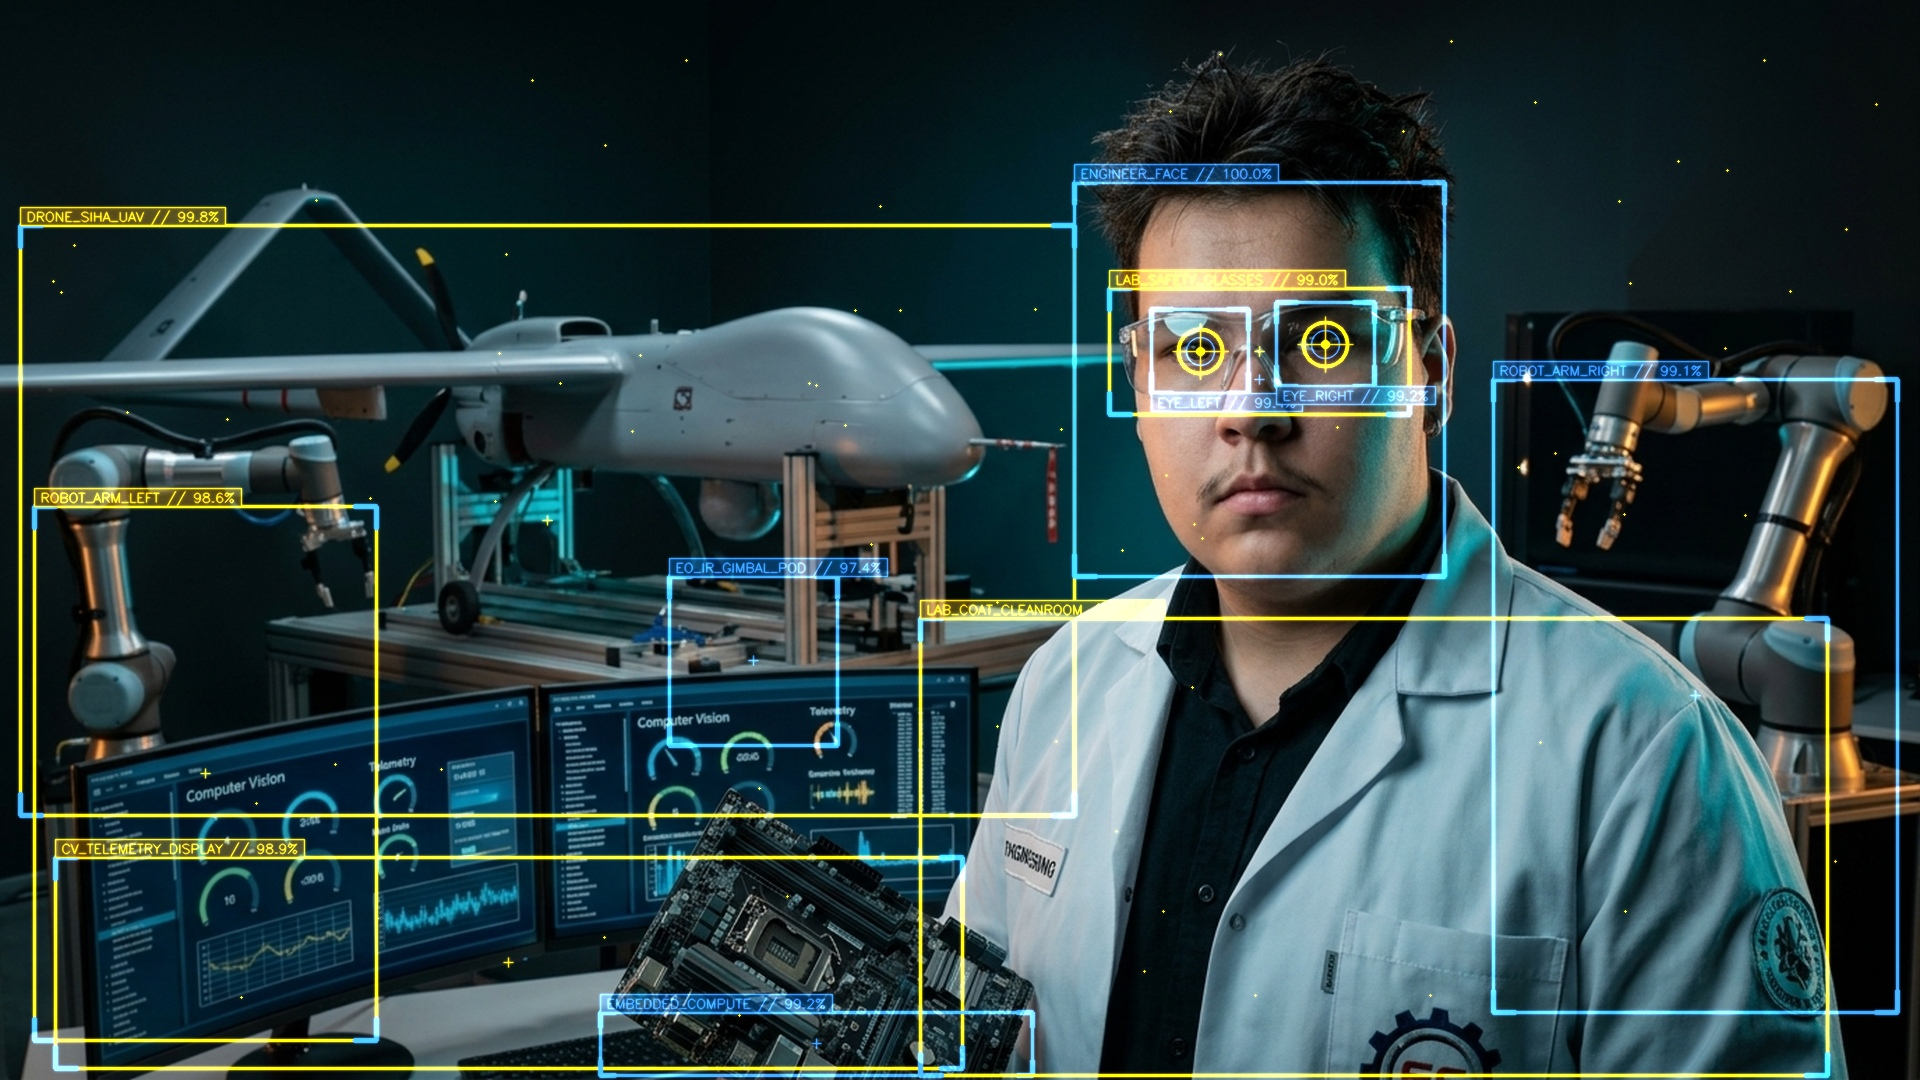
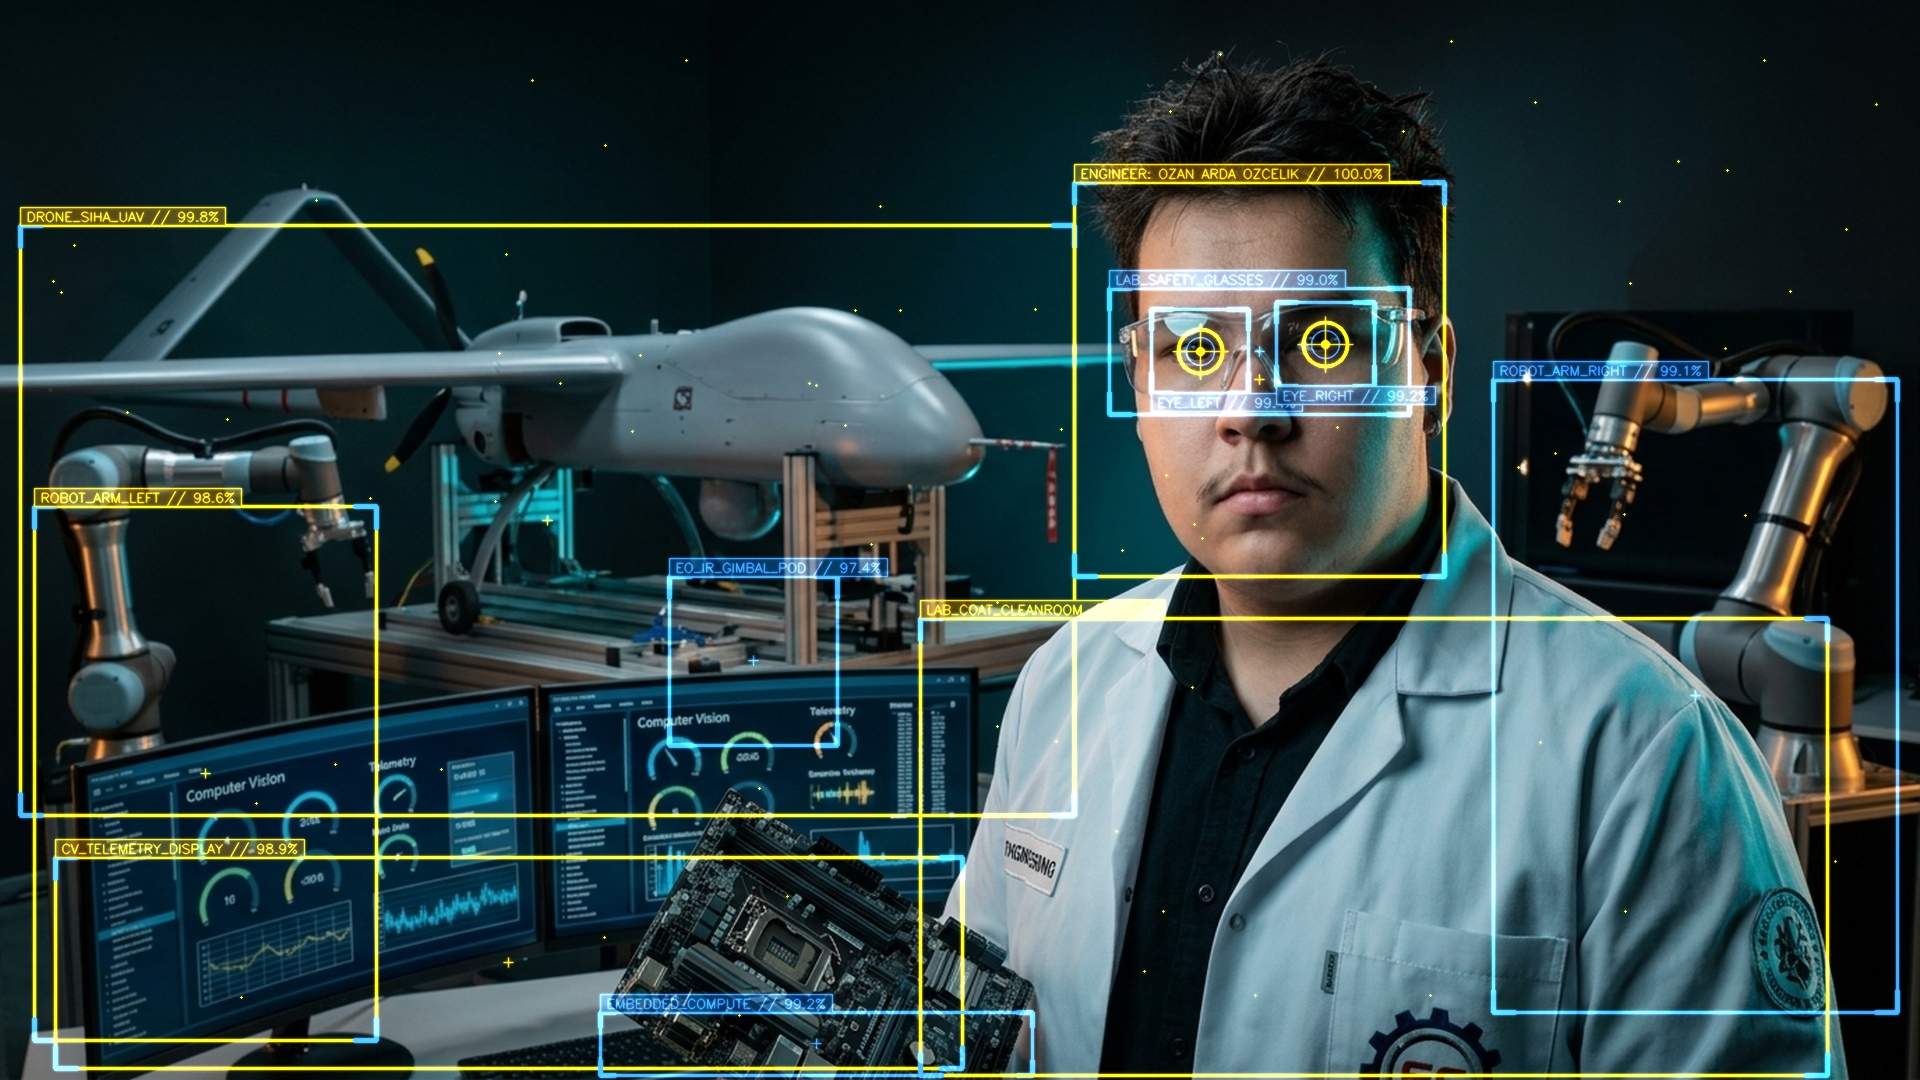
feat(hero): make ENGINEER: OZAN ARDA OZCELIK bounding box permanently visible on main portrait

diff --git a/scratch/build_yolo_detection_layer.py b/scratch/build_yolo_detection_layer.py
@@ -8,15 +8,9 @@ def build_detection_layer():
     # 1. Load and upscale to crisp 1920x1080
     top_img = Image.open(src_top).convert("RGB")
     top_1080 = top_img.resize((1920, 1080), Image.Resampling.LANCZOS)
-    top_1080.save("public/portrait_top.jpg", quality=96)
-    print("Saved public/portrait_top.jpg (1920x1080)")
+    raw_bgr = cv2.cvtColor(np.array(top_1080), cv2.COLOR_RGB2BGR)
 
-    # 2. Build bottom YOLO / OpenCV detection layer
-    bot_bgr = cv2.cvtColor(np.array(top_1080), cv2.COLOR_RGB2BGR)
-    overlay = np.zeros_like(bot_bgr)
-    h, w = bot_bgr.shape[:2] # 1080, 1920
-
-    # Scale factor from 1376x768 to 1920x1080
+    h, w = raw_bgr.shape[:2] # 1080, 1920
     sx = 1920 / 1376
     sy = 1080 / 768
 
@@ -27,7 +21,7 @@ def build_detection_layer():
         # Draw main rectangle
         cv2.rectangle(img_layer, (px1, py1), (px2, py2), color, 2, cv2.LINE_AA)
 
-        # Corner brackets
+        # Corner precision brackets
         clen = min(22, (px2 - px1) // 4, (py2 - py1) // 4)
         cv2.line(img_layer, (px1, py1), (px1 + clen, py1), (255, 140, 55), 3, cv2.LINE_AA)
         cv2.line(img_layer, (px1, py1), (px1, py1 + clen), (255, 140, 55), 3, cv2.LINE_AA)
@@ -39,7 +33,7 @@ def build_detection_layer():
         cv2.line(img_layer, (px2, py2), (px2, py2 - clen), (255, 140, 55), 3, cv2.LINE_AA)
 
         # Label tag text
-        tag_text = f"{label.upper()} // {score:.1f}%"
+        tag_text = f"{label.upper()} // {score:.1f}%" if score is not None else label.upper()
         font = cv2.FONT_HERSHEY_SIMPLEX
         font_scale = 0.44
         thickness = 1
@@ -64,36 +58,56 @@ def build_detection_layer():
             cx, cy = (px1 + px2) // 2, (py1 + py2) // 2
             cv2.drawMarker(img_layer, (cx, cy), color, cv2.MARKER_CROSS, 10, 1, cv2.LINE_AA)
 
+    # =========================================================================
+    # 1. TOP LAYER: Ozan with Permanent ENGINEER: OZAN ARDA OZCELIK Bounding Box
+    # =========================================================================
+    top_overlay = np.zeros_like(raw_bgr)
+    # Permanent Engineer detection box
+    draw_yolo_box(top_overlay, 770, 130, 1035, 410, "ENGINEER: OZAN ARDA OZCELIK", 100.0, color=(0, 210, 255), header_bg=(0, 40, 60), tag_pos="top")
+    # Permanent Lab safety glasses box
+    draw_yolo_box(top_overlay, 795, 205, 1010, 295, "LAB_SAFETY_GLASSES", 99.0, color=(255, 140, 55), header_bg=(60, 30, 0), tag_pos="top", show_crosshair=False)
+
+    top_blur = cv2.GaussianBlur(top_overlay, (7, 7), 0)
+    top_final = cv2.addWeighted(raw_bgr, 1.0, top_overlay, 0.95, 0)
+    top_final = cv2.addWeighted(top_final, 1.0, top_blur, 0.40, 0)
+    Image.fromarray(cv2.cvtColor(top_final, cv2.COLOR_BGR2RGB)).save("public/portrait_top.jpg", quality=96)
+    print("Saved public/portrait_top.jpg with permanent Engineer Box (1920x1080)")
+
+    # =========================================================================
+    # 2. BOTTOM LAYER: Full Laboratory Spatial Perception Matrix
+    # =========================================================================
+    bot_overlay = np.zeros_like(raw_bgr)
+
     # 1. SİHA Drone (Left)
-    draw_yolo_box(overlay, 15, 160, 770, 580, "drone_siha_uav", 99.8, color=(0, 210, 255), header_bg=(0, 40, 60), tag_pos="top")
+    draw_yolo_box(bot_overlay, 15, 160, 770, 580, "drone_siha_uav", 99.8, color=(0, 210, 255), header_bg=(0, 40, 60), tag_pos="top")
 
     # 2. Electro-Optical Gimbal Pod on Drone
-    draw_yolo_box(overlay, 480, 410, 600, 530, "eo_ir_gimbal_pod", 97.4, color=(255, 140, 55), header_bg=(60, 30, 0), tag_pos="top")
+    draw_yolo_box(bot_overlay, 480, 410, 600, 530, "eo_ir_gimbal_pod", 97.4, color=(255, 140, 55), header_bg=(60, 30, 0), tag_pos="top")
 
     # 3. Left Robot Arm
-    draw_yolo_box(overlay, 25, 360, 270, 740, "robot_arm_left", 98.6, color=(0, 210, 255), header_bg=(0, 40, 60), tag_pos="top")
+    draw_yolo_box(bot_overlay, 25, 360, 270, 740, "robot_arm_left", 98.6, color=(0, 210, 255), header_bg=(0, 40, 60), tag_pos="top")
 
     # 4. Right Robot Arm
-    draw_yolo_box(overlay, 1070, 270, 1360, 720, "robot_arm_right", 99.1, color=(255, 140, 55), header_bg=(60, 30, 0), tag_pos="top")
+    draw_yolo_box(bot_overlay, 1070, 270, 1360, 720, "robot_arm_right", 99.1, color=(255, 140, 55), header_bg=(60, 30, 0), tag_pos="top")
 
     # 5. Dual Telemetry Monitors
-    draw_yolo_box(overlay, 40, 610, 690, 760, "cv_telemetry_display", 98.9, color=(0, 210, 255), header_bg=(0, 40, 60), tag_pos="top")
+    draw_yolo_box(bot_overlay, 40, 610, 690, 760, "cv_telemetry_display", 98.9, color=(0, 210, 255), header_bg=(0, 40, 60), tag_pos="top")
 
     # 6. Embedded Compute Motherboard
-    draw_yolo_box(overlay, 430, 720, 740, 765, "embedded_compute", 99.2, color=(255, 140, 55), header_bg=(60, 30, 0), tag_pos="top")
+    draw_yolo_box(bot_overlay, 430, 720, 740, 765, "embedded_compute", 99.2, color=(255, 140, 55), header_bg=(60, 30, 0), tag_pos="top")
 
     # 7. Lab Coat (Önlük)
-    draw_yolo_box(overlay, 660, 440, 1310, 765, "lab_coat_cleanroom", 98.5, color=(0, 210, 255), header_bg=(0, 40, 60), tag_pos="top", show_crosshair=False)
+    draw_yolo_box(bot_overlay, 660, 440, 1310, 765, "lab_coat_cleanroom", 98.5, color=(0, 210, 255), header_bg=(0, 40, 60), tag_pos="top", show_crosshair=False)
 
-    # 8. Engineer Face
-    draw_yolo_box(overlay, 770, 130, 1035, 410, "engineer_face", 100.0, color=(255, 140, 55), header_bg=(60, 30, 0), tag_pos="top")
+    # 8. Engineer Face Box
+    draw_yolo_box(bot_overlay, 770, 130, 1035, 410, "ENGINEER: OZAN ARDA OZCELIK", 100.0, color=(0, 210, 255), header_bg=(0, 40, 60), tag_pos="top")
 
     # 9. Safety Glasses (Lab Gözlüğü)
-    draw_yolo_box(overlay, 795, 205, 1010, 295, "lab_safety_glasses", 99.0, color=(0, 210, 255), header_bg=(0, 40, 60), tag_pos="top")
+    draw_yolo_box(bot_overlay, 795, 205, 1010, 295, "lab_safety_glasses", 99.0, color=(255, 140, 55), header_bg=(60, 30, 0), tag_pos="top")
 
-    # 10. Left Eye & Right Eye Boxes (placed tags at bottom to avoid overlap)
-    draw_yolo_box(overlay, 825, 220, 895, 280, "eye_left", 99.4, color=(255, 140, 55), header_bg=(60, 30, 0), tag_pos="bottom", show_crosshair=False)
-    draw_yolo_box(overlay, 915, 215, 985, 275, "eye_right", 99.2, color=(255, 140, 55), header_bg=(60, 30, 0), tag_pos="bottom", show_crosshair=False)
+    # 10. Left Eye & Right Eye Boxes
+    draw_yolo_box(bot_overlay, 825, 220, 895, 280, "eye_left", 99.4, color=(255, 140, 55), header_bg=(60, 30, 0), tag_pos="bottom", show_crosshair=False)
+    draw_yolo_box(bot_overlay, 915, 215, 985, 275, "eye_right", 99.2, color=(255, 140, 55), header_bg=(60, 30, 0), tag_pos="bottom", show_crosshair=False)
 
     # 11. Circular Camera Apertures on Eyes
     lex = int(860 * sx)
@@ -101,28 +115,24 @@ def build_detection_layer():
     rex = int(950 * sx)
     rey = int(245 * sy)
     for ex, ey in [(lex, ley), (rex, rey)]:
-        cv2.circle(overlay, (ex, ey), 22, (0, 210, 255), 2, cv2.LINE_AA)
-        cv2.circle(overlay, (ex, ey), 14, (255, 140, 55), 1, cv2.LINE_AA)
-        cv2.circle(overlay, (ex, ey), 4, (0, 210, 255), -1, cv2.LINE_AA)
-        cv2.line(overlay, (ex - 28, ey), (ex + 28, ey), (0, 210, 255), 1, cv2.LINE_AA)
-        cv2.line(overlay, (ex, ey - 28), (ex, ey + 28), (0, 210, 255), 1, cv2.LINE_AA)
+        cv2.circle(bot_overlay, (ex, ey), 22, (0, 210, 255), 2, cv2.LINE_AA)
+        cv2.circle(bot_overlay, (ex, ey), 14, (255, 140, 55), 1, cv2.LINE_AA)
+        cv2.circle(bot_overlay, (ex, ey), 4, (0, 210, 255), -1, cv2.LINE_AA)
+        cv2.line(bot_overlay, (ex - 28, ey), (ex + 28, ey), (0, 210, 255), 1, cv2.LINE_AA)
+        cv2.line(bot_overlay, (ex, ey - 28), (ex, ey + 28), (0, 210, 255), 1, cv2.LINE_AA)
 
     # 12. Digital HUD LiDAR Point Scan Markers
     np.random.seed(42)
     for _ in range(70):
         lx = np.random.randint(40, w - 40)
         ly = np.random.randint(40, h - 40)
-        cv2.circle(overlay, (lx, ly), 1, (0, 210, 255), -1)
+        cv2.circle(bot_overlay, (lx, ly), 1, (0, 210, 255), -1)
 
-    # Blend overlay with gentle bloom effect
-    overlay_blur = cv2.GaussianBlur(overlay, (7, 7), 0)
-    final_bot = cv2.addWeighted(bot_bgr, 1.0, overlay, 0.95, 0)
-    final_bot = cv2.addWeighted(final_bot, 1.0, overlay_blur, 0.40, 0)
-
-    # Save BOTTOM portrait
-    final_rgb = cv2.cvtColor(final_bot, cv2.COLOR_BGR2RGB)
-    Image.fromarray(final_rgb).save("public/portrait_bottom.jpg", quality=96)
-    print("Saved public/portrait_bottom.jpg (1920x1080)")
+    bot_blur = cv2.GaussianBlur(bot_overlay, (7, 7), 0)
+    bot_final = cv2.addWeighted(raw_bgr, 1.0, bot_overlay, 0.95, 0)
+    bot_final = cv2.addWeighted(bot_final, 1.0, bot_blur, 0.40, 0)
+    Image.fromarray(cv2.cvtColor(bot_final, cv2.COLOR_BGR2RGB)).save("public/portrait_bottom.jpg", quality=96)
+    print("Saved public/portrait_bottom.jpg with full detection matrix (1920x1080)")
 
 if __name__ == "__main__":
     build_detection_layer()
